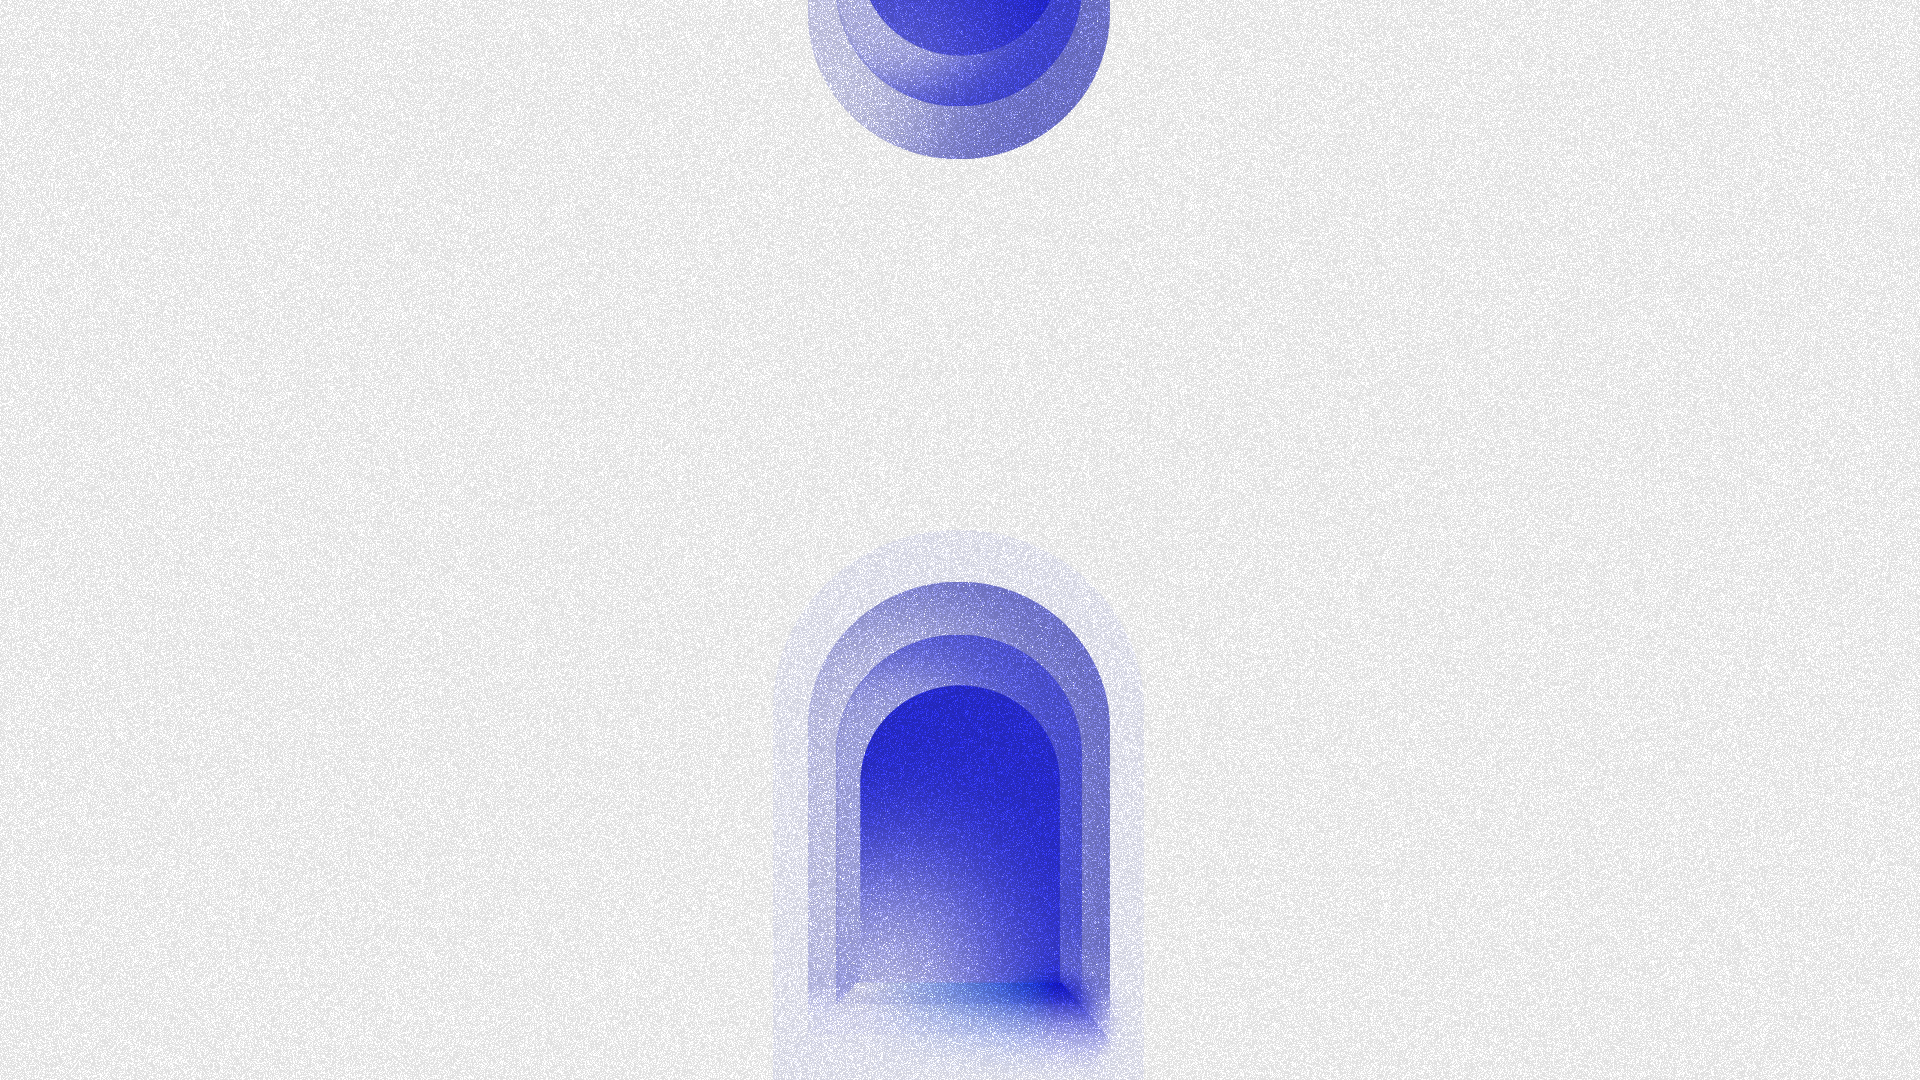
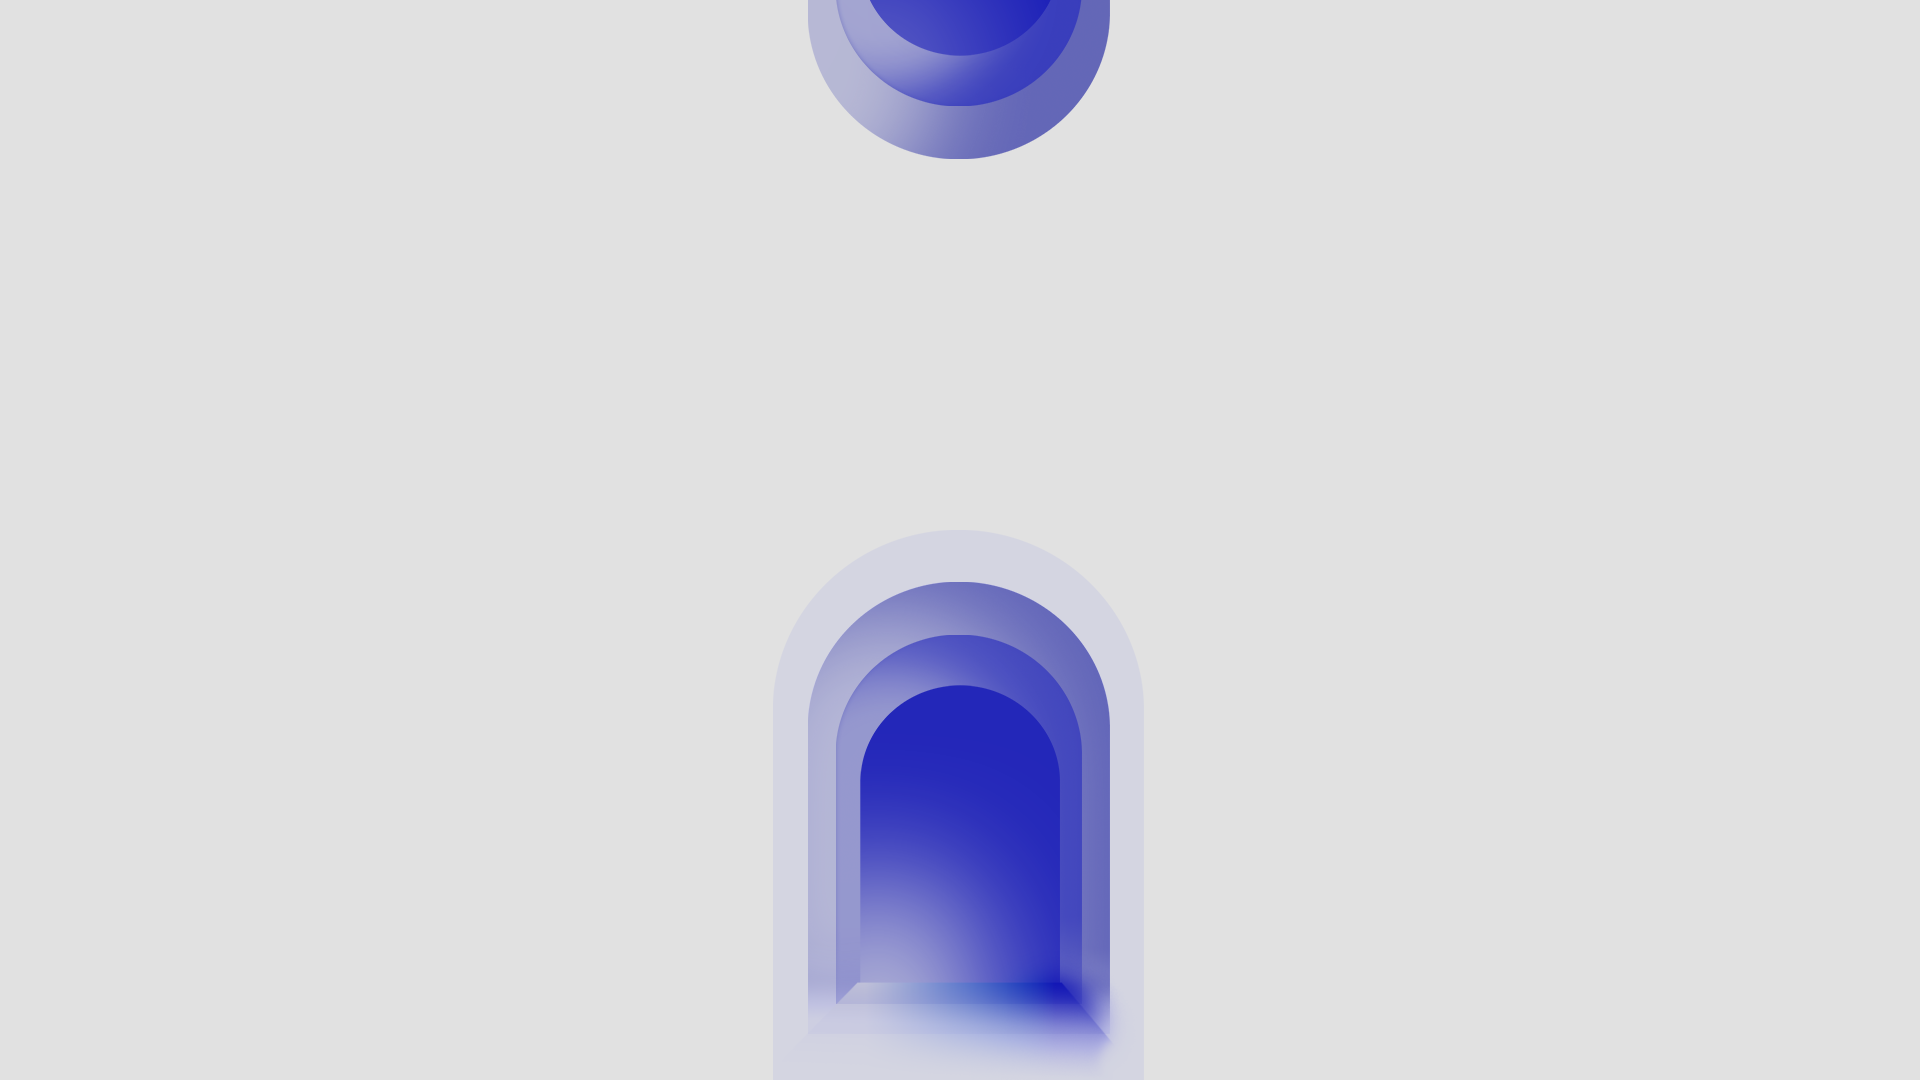
Add noise

diff --git a/intro/index.html b/intro/index.html
@@ -15,6 +15,7 @@
         <img class="logo-right logo-right-1" src="../_shared/assets/vivid_veritas.png">
         <img class="logo-right logo-right-2" src="../_shared/assets/vivid_veritas.png">
         <img class="hand" src="../_shared/assets/hand.png">
+        <img class="noise" src="static/noise.png">
     </div>
 
     <script src="index.js"></script>

diff --git a/intro/style.css b/intro/style.css
@@ -120,3 +120,11 @@ body {
     from { opacity: 0.6; }
     to { opacity: 1; }
 }
+
+/* Noise */
+.noise {
+    position: absolute;
+    left: 0;
+    top: 0;
+    mix-blend-mode: color-dodge;
+}
